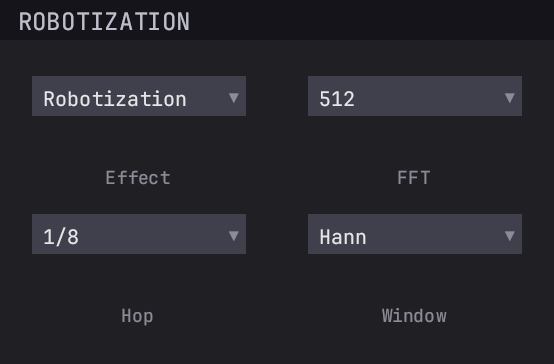
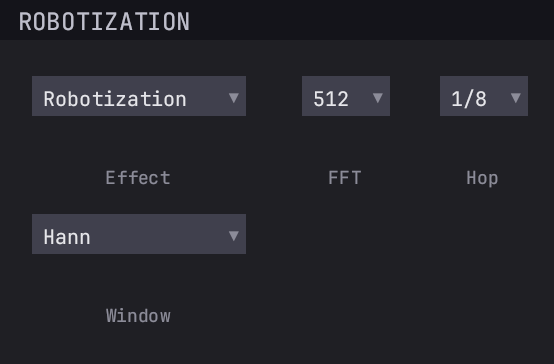
UI tweaks

diff --git a/plugins/reiss-mcpherson-phaser/src/lib.rs b/plugins/reiss-mcpherson-phaser/src/lib.rs
@@ -281,13 +281,13 @@ impl PluginLogic for Phaser {
             widgets(vec![
                 knob(P::Depth, "Depth"),
                 knob(P::Feedback, "Fbk"),
-                dropdown(P::Stages, "Stages").cols(2),
+                dropdown(P::Stages, "Stages"),
             ]),
             widgets(vec![
                 knob(P::MinFreq, "Min Hz"),
                 knob(P::SweepWidth, "Sweep"),
                 knob(P::LfoRate, "Rate"),
-                dropdown(P::Waveform, "Wave").cols(2),
+                dropdown(P::Waveform, "Wave"),
                 toggle(P::Stereo, "Stereo"),
             ]),
         ])

diff --git a/plugins/reiss-mcpherson-pitchshift/src/lib.rs b/plugins/reiss-mcpherson-pitchshift/src/lib.rs
@@ -413,9 +413,9 @@ impl PluginLogic for PitchShift {
     fn editor(&self) -> Box<dyn Editor> {
         GridLayout::build(vec![widgets(vec![
             knob(P::Shift, "Shift"),
-            dropdown(P::FftSize, "FFT").cols(2),
-            dropdown(P::Hop, "Hop").cols(2),
-            dropdown(P::Window, "Window").cols(2),
+            dropdown(P::FftSize, "FFT"),
+            dropdown(P::Hop, "Hop"),
+            dropdown(P::Window, "Window"),
         ])])
         .with_title("PITCH SHIFT")
         .into_editor(&self.params)

diff --git a/plugins/reiss-mcpherson-robotization/src/lib.rs b/plugins/reiss-mcpherson-robotization/src/lib.rs
@@ -388,8 +388,8 @@ impl PluginLogic for Robotization {
     fn editor(&self) -> Box<dyn Editor> {
         GridLayout::build(vec![widgets(vec![
             dropdown(P::Effect, "Effect").cols(2),
-            dropdown(P::FftSize, "FFT").cols(2),
-            dropdown(P::Hop, "Hop").cols(2),
+            dropdown(P::FftSize, "FFT"),
+            dropdown(P::Hop, "Hop"),
             dropdown(P::Window, "Window").cols(2),
         ])])
         .with_title("ROBOTIZATION")

diff --git a/plugins/reiss-mcpherson-flanger/src/lib.rs b/plugins/reiss-mcpherson-flanger/src/lib.rs
@@ -273,7 +273,7 @@ impl PluginLogic for Flanger {
             widgets(vec![
                 knob(P::Rate, "Rate"),
                 dropdown(P::Waveform, "Wave").cols(2),
-                dropdown(P::Interp, "Interp").cols(2),
+                dropdown(P::Interp, "Interp"),
                 toggle(P::Inverted, "Inv"),
                 toggle(P::Stereo, "Stereo"),
             ]),

diff --git a/plugins/reiss-mcpherson-vibrato/src/lib.rs b/plugins/reiss-mcpherson-vibrato/src/lib.rs
@@ -213,7 +213,7 @@ impl PluginLogic for Vibrato {
             knob(P::Width, "Width"),
             knob(P::Rate, "Rate"),
             dropdown(P::Waveform, "Wave").cols(2),
-            dropdown(P::Interp, "Interp").cols(2),
+            dropdown(P::Interp, "Interp"),
         ])])
         .with_title("VIBRATO")
         .into_editor(&self.params)

diff --git a/plugins/reiss-mcpherson-chorus/src/lib.rs b/plugins/reiss-mcpherson-chorus/src/lib.rs
@@ -292,7 +292,7 @@ impl PluginLogic for Chorus {
             widgets(vec![
                 knob(P::Rate, "Rate"),
                 dropdown(P::Waveform, "Wave").cols(2),
-                dropdown(P::Interp, "Interp").cols(2),
+                dropdown(P::Interp, "Interp"),
                 toggle(P::Stereo, "Stereo"),
             ]),
         ])

diff --git a/plugins/reiss-mcpherson-panning/src/lib.rs b/plugins/reiss-mcpherson-panning/src/lib.rs
@@ -219,7 +219,7 @@ impl PluginLogic for Panning {
 
     fn editor(&self) -> Box<dyn Editor> {
         GridLayout::build(vec![widgets(vec![
-            dropdown(P::Method, "Method").cols(2),
+            dropdown(P::Method, "Method"),
             knob(P::Pan, "Pan"),
         ])])
         .with_title("PANNING")

diff --git a/README.md b/README.md
@@ -19,7 +19,7 @@ density identical regardless of widget count.
 | ------------------------------------------ | ------------------------------------- | ---------- |
 | `reiss-mcpherson-delay`                    | Circular-buffer delay                 | <img src="screenshots/reiss-mcpherson-delay.png" width="208" height="113" alt="Reiss Delay editor"> |
 | `reiss-mcpherson-vibrato`                  | LFO-modulated delay (pitch wobble)    | <img src="screenshots/reiss-mcpherson-vibrato.png" width="277" height="182" alt="Reiss Vibrato editor"> |
-| `reiss-mcpherson-flanger`                  | Modulated short delay + dry sum       | <img src="screenshots/reiss-mcpherson-flanger.png" width="346" height="251" alt="Reiss Flanger editor"> |
+| `reiss-mcpherson-flanger`                  | Modulated short delay + dry sum       | <img src="screenshots/reiss-mcpherson-flanger.png" width="346" height="182" alt="Reiss Flanger editor"> |
 | `reiss-mcpherson-chorus`                   | Multi-voice ensemble chorus           | <img src="screenshots/reiss-mcpherson-chorus.png" width="277" height="251" alt="Reiss Chorus editor"> |
 | `reiss-mcpherson-pingpong`                 | Cross-channel ping-pong delay         | <img src="screenshots/reiss-mcpherson-pingpong.png" width="277" height="113" alt="Reiss Ping-Pong editor"> |
 | `reiss-mcpherson-parametric-eq`            | Single-band parametric EQ (7 shapes)  | <img src="screenshots/reiss-mcpherson-parametric-eq.png" width="208" height="182" alt="Reiss Parametric EQ editor"> |
@@ -29,9 +29,9 @@ density identical regardless of widget count.
 | `reiss-mcpherson-ringmod`                  | Ring modulation                       | <img src="screenshots/reiss-mcpherson-ringmod.png" width="139" height="182" alt="Reiss Ring Mod editor"> |
 | `reiss-mcpherson-compressor`               | Compressor / expander / gate          | <img src="screenshots/reiss-mcpherson-compressor.png" width="277" height="182" alt="Reiss Compressor editor"> |
 | `reiss-mcpherson-distortion`               | 5-shape waveshaper + tone shelf       | <img src="screenshots/reiss-mcpherson-distortion.png" width="277" height="182" alt="Reiss Distortion editor"> |
-| `reiss-mcpherson-panning`                  | Panorama+precedence / ITD+ILD pan     | <img src="screenshots/reiss-mcpherson-panning.png" width="139" height="182" alt="Reiss Panning editor"> |
+| `reiss-mcpherson-panning`                  | Panorama+precedence / ITD+ILD pan     | <img src="screenshots/reiss-mcpherson-panning.png" width="139" height="113" alt="Reiss Panning editor"> |
 | `reiss-mcpherson-robotization`             | Phase-vocoder robot / whisper         | <img src="screenshots/reiss-mcpherson-robotization.png" width="277" height="182" alt="Reiss Robotization editor"> |
-| `reiss-mcpherson-pitchshift`               | Phase-vocoder pitch shifter           | <img src="screenshots/reiss-mcpherson-pitchshift.png" width="277" height="182" alt="Reiss Pitch Shift editor"> |
+| `reiss-mcpherson-pitchshift`               | Phase-vocoder pitch shifter           | <img src="screenshots/reiss-mcpherson-pitchshift.png" width="277" height="113" alt="Reiss Pitch Shift editor"> |
 
 ## Build
 
